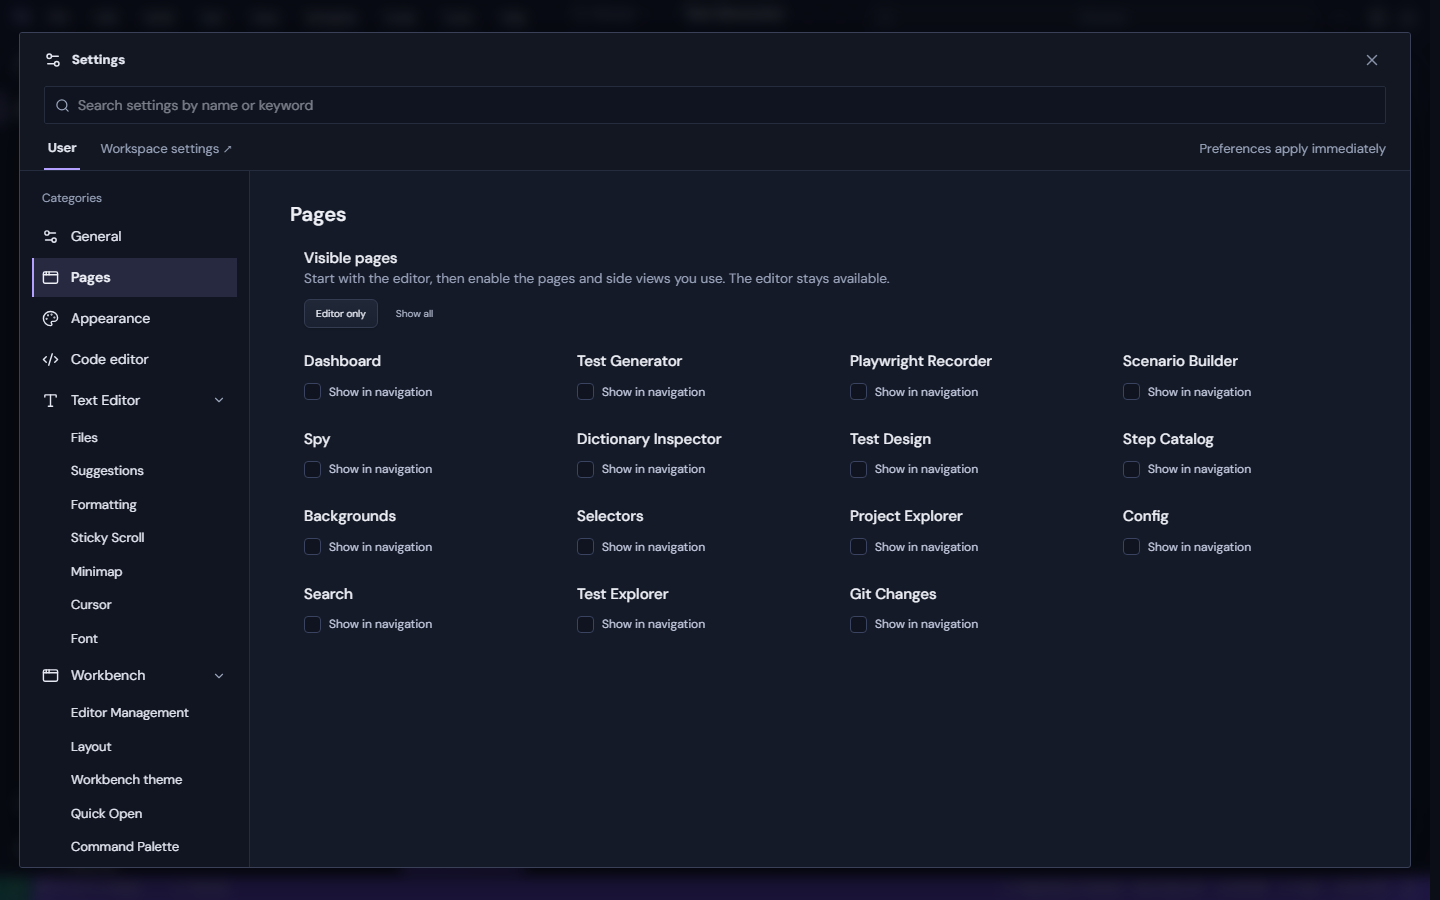
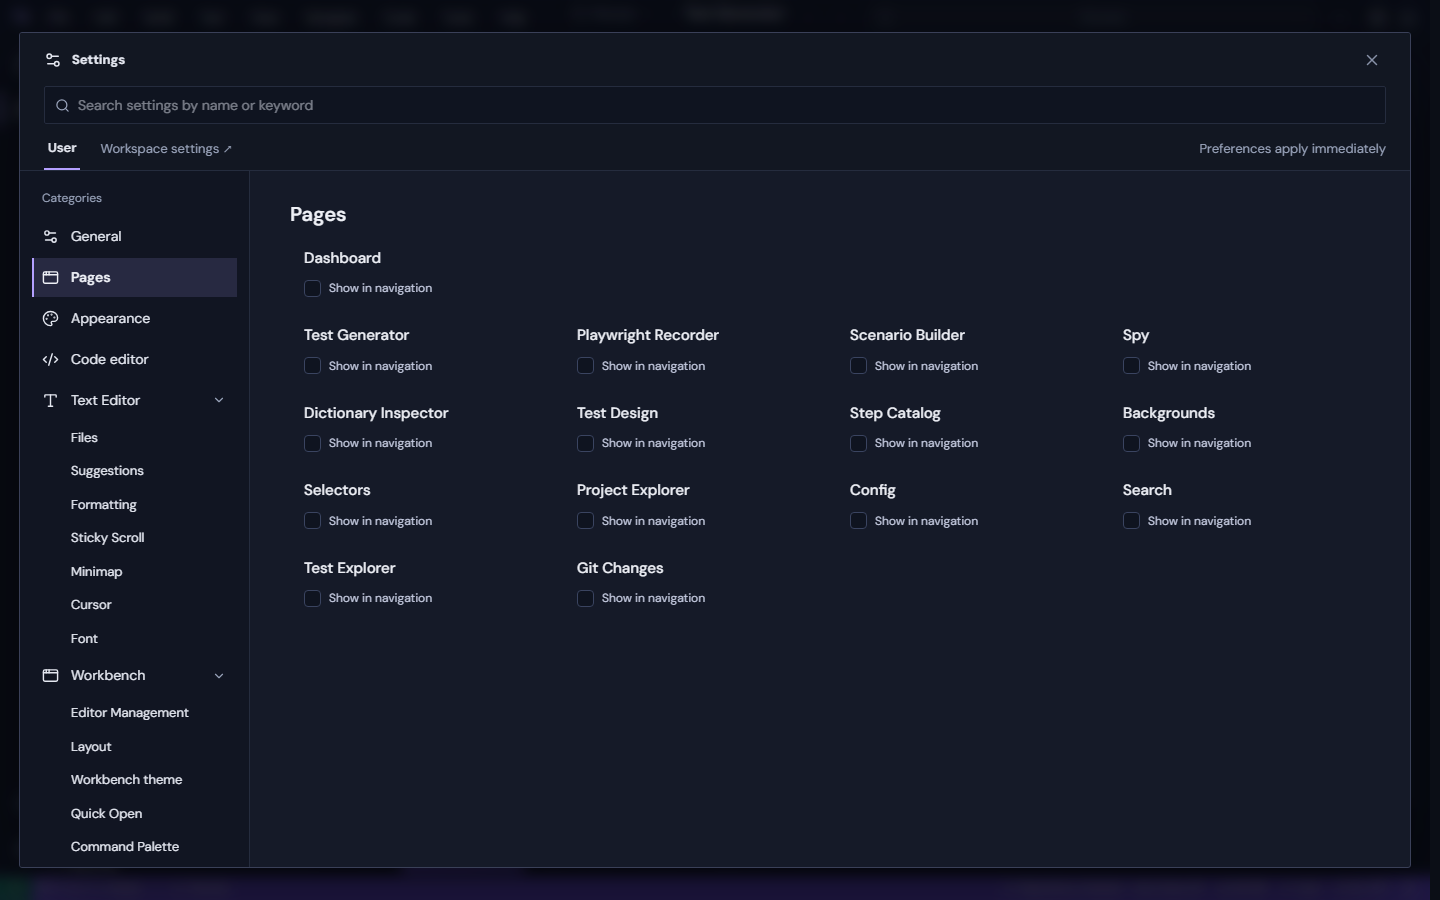
fix(web): keep page visibility switches individual

diff --git a/test-authoring-studio/src/StudioSettings.tsx b/test-authoring-studio/src/StudioSettings.tsx
@@ -18,7 +18,6 @@ import { defaultPrefs } from './radix2';
 import { settingCategories, settingRows } from './vscode/settingsRows';
 import { exportSettings, importSettings, useSettings } from './vscode/settings';
 import { setControlProfile } from './vscode/uiControls';
-import { setPageProfile } from './vscode/pageVisibility';
 import { isDesktop } from './desktop';
 import { FEATURES, GROUPS, featureOn, featurePreset, setFeature, setFeaturePreset, setFeatures, useFeatures, featureChanged } from './features';
 
@@ -281,7 +280,6 @@ export default function StudioSettings({ onNotice, onWorkspace, shortcuts, onClo
     }),
     // VS Code–style settings
     ...(!isDesktop ? [
-      { id: 'page-profile', section: 'Pages', title: 'Visible pages', description: 'Start with the editor, then enable the pages and side views you use. The editor stays available.', keywords: 'pages navigation dashboard editor recorder hide show', control: <span className="button-row"><Button size="small" onClick={() => setPageProfile('editor')}>Editor only</Button><Button size="small" variant="ghost" onClick={() => setPageProfile('all')}>Show all</Button></span> } as Row,
       { id: 'button-profile', section: 'Workbench ▸ Buttons', title: 'Button profile', description: 'Restore the compact essential set or show every workbench button. Individual switches below can then be adjusted.', keywords: 'buttons controls toolbar essentials all reset', control: <span className="button-row"><Button size="small" onClick={() => setControlProfile('essentials')}>Essentials</Button><Button size="small" variant="ghost" onClick={() => setControlProfile('all')}>Show all</Button></span> } as Row,
     ] : []),
     ...settingRows(),

diff --git a/test-authoring-studio/tests/e2e/page-visibility.spec.ts b/test-authoring-studio/tests/e2e/page-visibility.spec.ts
@@ -30,10 +30,12 @@ test('fresh web workbench shows the editor and lets users enable pages in Settin
 
   await page.keyboard.press('Control+,');
   await page.getByRole('dialog').getByRole('navigation', { name: 'Settings categories' }).getByRole('button', { name: 'Pages' }).click();
-  await page.getByRole('dialog').getByRole('button', { name: 'Editor only' }).click();
+  await page.getByRole('dialog').locator('#setting-workbench-pages-dashboard').click();
   await page.keyboard.press('Escape');
   await expect(page).toHaveURL(/#\/features\/editor$/);
   await expect(activity.getByRole('button', { name: 'Dashboard' })).toHaveCount(0);
+  await expect(activity.getByRole('button', { name: 'Test Generator' })).toBeVisible();
+  await expect(activity.getByRole('button', { name: 'Playwright Recorder' })).toBeVisible();
 });
 
 test('classic and mobile navigation honor the same page switches', async ({ page }) => {
@@ -46,7 +48,8 @@ test('classic and mobile navigation honor the same page switches', async ({ page
 
   await page.keyboard.press('Control+,');
   await page.getByRole('dialog').getByRole('navigation', { name: 'Settings categories' }).getByRole('button', { name: 'Pages' }).click();
-  await page.getByRole('dialog').getByRole('button', { name: 'Show all' }).click();
+  await page.getByRole('dialog').locator('#setting-workbench-pages-dashboard').click();
+  await page.getByRole('dialog').locator('#setting-workbench-pages-recorder').click();
   await page.keyboard.press('Escape');
   await expect(classic.getByRole('button', { name: 'Dashboard' })).toBeVisible();
   await expect(page.locator('.recorder-tab')).toBeVisible();

diff --git a/test-authoring-studio/tests/e2e/web-controls.spec.ts b/test-authoring-studio/tests/e2e/web-controls.spec.ts
@@ -36,7 +36,7 @@ test('web workbench starts with essential controls and restores optional buttons
   await page.getByRole('dialog').getByRole('navigation', { name: 'Settings categories' }).getByRole('button', { name: 'Buttons' }).click();
   await page.getByRole('dialog').getByRole('button', { name: 'Essentials' }).click();
   await page.getByRole('dialog').getByRole('navigation', { name: 'Settings categories' }).getByRole('button', { name: 'Pages' }).click();
-  await page.getByRole('dialog').getByRole('button', { name: 'Editor only' }).click();
+  await page.getByRole('dialog').locator('#setting-workbench-pages-test-design').click();
   await page.keyboard.press('Escape');
   await expect(page.getByRole('navigation', { name: 'Main' }).getByRole('button', { name: 'Test Design' })).toHaveCount(0);
   await expect(page.getByRole('button', { name: 'Guide me' })).toBeVisible();

diff --git a/test-authoring-studio/src/vscode/pageVisibility.ts b/test-authoring-studio/src/vscode/pageVisibility.ts
@@ -1,4 +1,4 @@
-import { defineSetting, importSettings, setSetting } from './settings';
+import { defineSetting, setSetting } from './settings';
 import { isDesktop } from '../desktop';
 
 /** Optional web pages and side views. The feature editor is always available. */
@@ -44,8 +44,3 @@ export const setPageVisible = (name: string, visible: boolean) => {
   setSetting(keyOf(id), visible);
   if (visible && activityButtons[id]) setSetting(`workbench.controls.${activityButtons[id]}`, true);
 };
-
-export const setPageProfile = (profile: 'editor' | 'all') => isDesktop ? 0 : importSettings(JSON.stringify({
-  ...Object.fromEntries(pages.map(([id]) => [keyOf(id), profile === 'all'])),
-  ...(profile === 'all' ? Object.fromEntries(Object.values(activityButtons).map((id) => [`workbench.controls.${id}`, true])) : {}),
-}));

diff --git a/README.md b/README.md
@@ -21,7 +21,7 @@ machine; nothing is uploaded.
 
 The desktop and web apps share the core authoring features. Optional capabilities can be managed in **Settings > Features**. Detailed inventories and progress: [RIDER-VSCODE-FEATURES.md](RIDER-VSCODE-FEATURES.md), [FRONTEND-100.md](FRONTEND-100.md), [VSCODE-20.md](VSCODE-20.md), [ADVANCED-20.md](ADVANCED-20.md), [CSHARP-20.md](CSHARP-20.md), [DEBUG-20.md](DEBUG-20.md), [REQNROLL.md](REQNROLL.md), [SPY.md](SPY.md) and [GUI-QOL.md](GUI-QOL.md).
 
-In the web app, a fresh session opens the feature editor with other pages hidden from navigation. **Settings > Pages** enables the Dashboard, Test Generator, Recorder and other pages or side views individually, with **Editor only** and **Show all** presets. **Settings > General > Show Guide Me button** controls the tour button; it is hidden initially. **Settings > Workbench > Buttons** controls individual buttons in the activity bar, title bar, Explorer, editor, test, build and debug tools, and status bar.
+In the web app, a fresh session opens the feature editor with other pages hidden from navigation. **Settings > Pages** controls visibility for the Dashboard, Test Generator, Recorder and each other page or side view individually. **Settings > General > Show Guide Me button** controls the tour button; it is hidden initially. **Settings > Workbench > Buttons** controls individual buttons in the activity bar, title bar, Explorer, editor, test, build and debug tools, and status bar.
 
 ## Screenshots
 
